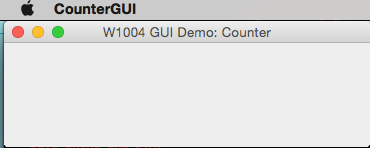
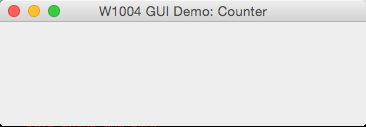
Added more images and cropped some screenshots

Changed region(s): [[0.0, 0.0, 1.0, 1.0]]

diff --git a/README.md b/README.md
@@ -55,7 +55,8 @@ This is a tutorial on Java GUIs. Written by James Wen.
 
 ####Event
 
-- Some interaction between the user and some aspect, component, or part of a Java GUI.
+- Some interaction that a Java class is listening for
+- In GUI context, is some interaction between the user and some component or part of a Java GUI
 
 ####Event Listener
 
@@ -116,6 +117,10 @@ Frame (AWT)/JFrame (Swing):
 - A top-level, framed window that contains a title and border. Can be closed or minified or etc.
 - Frames can be nested within each other. (Reference: http://docs.oracle.com/javase/tutorial/uiswing/components/internalframe.html)
 
+<p align="center">
+  <img src="http://da2i.univ-lille1.fr/doc/tutorial-java/figures/uiswing/components/FrameDemoMetal.png" alt="Frame"/>
+</p>
+
 Panel (AWT)/JPanel (Swing):
 
 - Container used for organizing and grouping GUI components within frames.
@@ -129,30 +134,59 @@ Point (AWT/Swing):
 
 Label (AWT)/JLabel (Swing):
 
-- Text that cannot be edited by the user.
+- Text or image display that cannot be edited by the user.
+
+<p align="center">
+  <img src="http://da2i.univ-lille1.fr/doc/tutorial-java/figures/uiswing/components/LabelDemoMetal.png" alt="Label"/>
+</p>
 
 Button (AWT)/JButton (Swing):
 
 - A button that the user can click.
 - Clicking a button will generate an ActionEvent that can be handled by an ActionListener to run some method or code.
 
+
+<p align="center">
+  <img src="http://da2i.univ-lille1.fr/doc/tutorial-java/figures/uiswing/components/ButtonDemoMetal.png" alt="Button"/>
+</p>
+
 TextField (AWT)/JTextField (Swing):
 
 - Text/Field for text that can be edited by the user.
+- Changing text will generate a TextEvent that can be handled by an TextListener to run some method or code.
+
+<p align="center">
+  <img src="http://www.java2s.com/Code/JavaImages/TextFieldExample.PNG" alt="TextField"/>
+</p>
 
 TextArea (AWT)/JTextArea (Swing):
 
 - Box that holds multiple lines of text. Can either be set to editable by user or uneditable.
+- Changing text will generate a TextEvent that can be handled by an TextListener to run some method or code.
+
+<p align="center">
+  <img src="http://www.leepoint.net/GUI/components/40textarea/TextAreaDemoAfter.gif" alt="TextArea"/>
+</p>
 
 JRadioButton (Swing):
 
 - An item that can either be selected or deselected.
 - Usually part of a group of more than one JRadioButton.
 - ButtonGroup used to group JRadioButtons together so that only one radio button in that group can be selected at a time.
+- Selecting or deselecting will generate an ItemEvent that can be handled by an ItemListener to run some method or code.
+
+<p align="center">
+  <img src="http://da2i.univ-lille1.fr/doc/tutorial-java/figures/uiswing/components/RadioButtonDemoMetal.png" alt="JRadioButton"/>
+</p>
 
 CheckBox (AWT)/JCheckBox (Swing):
 
 - A checkbox item that can either be selected or deselected.
+- Selecting or deselecting will generate an ItemEvent that can be handled by an ItemListener to run some method or code.
+
+<p align="center">
+  <img src="http://zetcode.com/img/gui/javaswing/jcheckbox.png" alt="JCheckbox"/>
+</p>
 
 ------
 
@@ -178,7 +212,7 @@ Java Swing:
 
 For a quick overview on the inheritance hierarchy of the most popular Java Swing GUI components: http://www.comp.nus.edu.sg/~cs3283/ftp/Java/swingConnect/archive/what_is_arch/tool_set/tool_set.html
 
-Java Swing Events will either inherit from java.util.EventObject directly or indirectly from java.awt.AWTEvent and AWT subclasses of java.awt.AWTEvent (like java.awt.event.ComponentEvent)
+- Java Swing Events will either inherit from java.util.EventObject directly or indirectly from java.awt.AWTEvent and AWT subclasses of java.awt.AWTEvent (like java.awt.event.ComponentEvent)
 
 ------
 
@@ -231,6 +265,11 @@ setLayout(LayoutManager mgr):
 For Java GUIs, LayoutManagers allow you to arrange the GUI components of a Container (or Container subclass) in a predefined and structured visual layout.
 
 - The default LayoutManager for a Container is BorderLayout.
+
+<p align="center">
+  <img src="https://docs.oracle.com/javase/tutorial/figures/uiswing/layout/BorderLayoutDemo.png" alt="BorderLayout"/>
+</p>
+
 - The setLayout(LayoutManager mgr) method of the Container class is used to set the Container's LayoutManager.
 - Overlapping of Components is not allowed with default behavior.
 - To add a component to a specific area of a Container's layout (ex. PAGE_START area of a BorderLayout), the add(Component comp, Object constraints) method of the Container class is usually used. 
